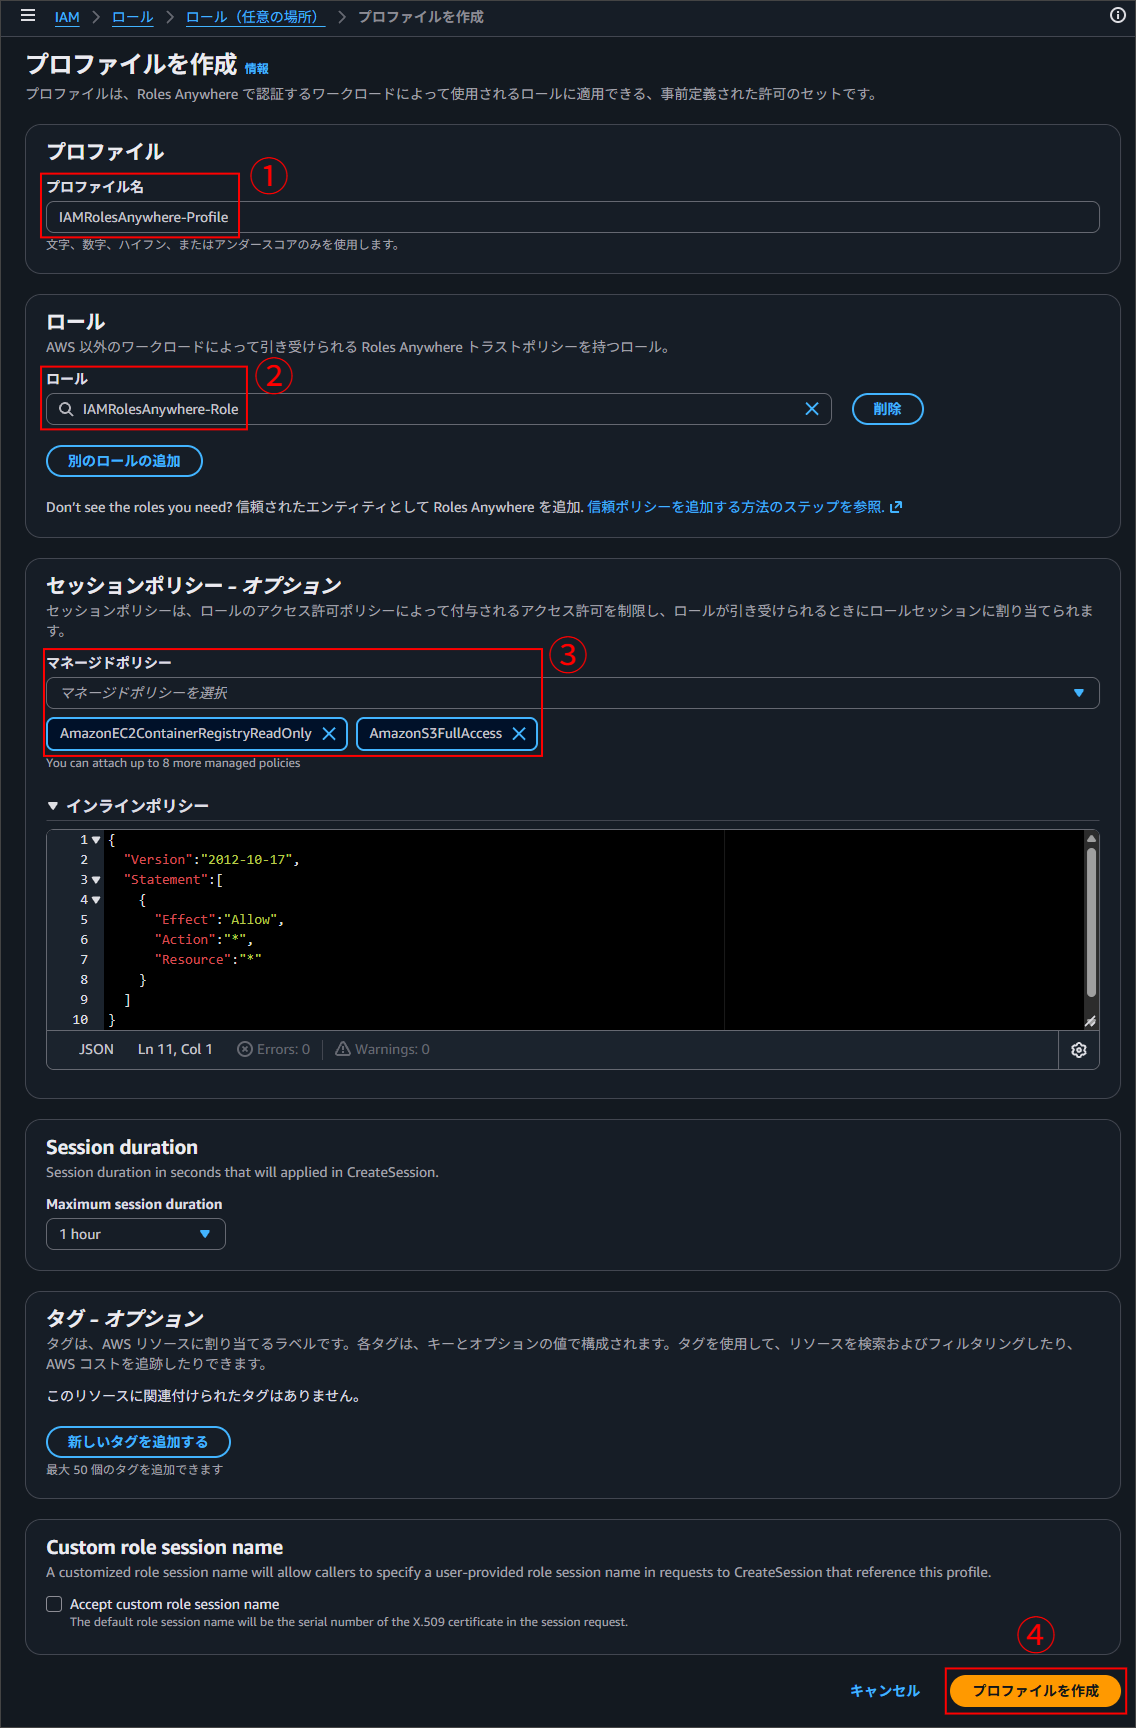
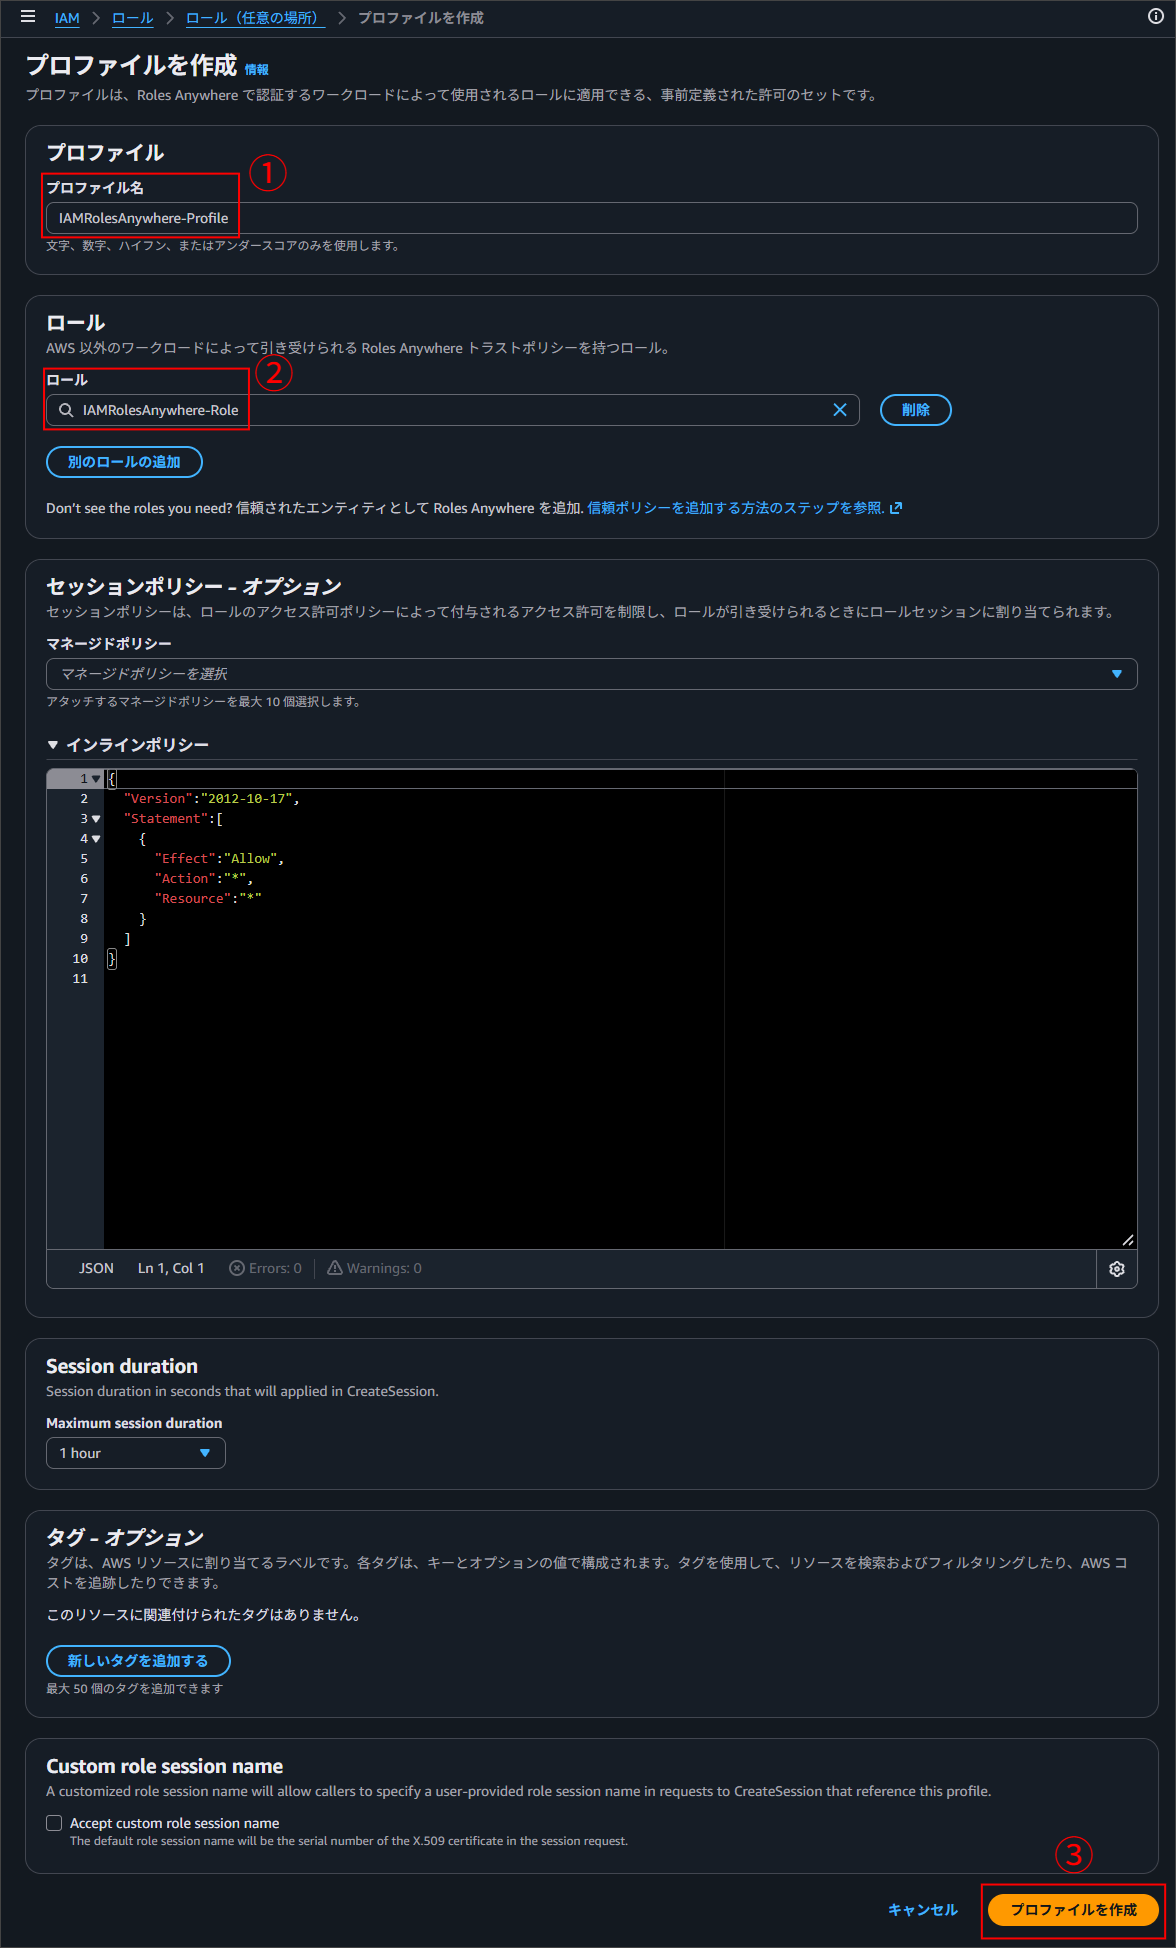
docs: IAMロールの権限設定手順を簡潔化

diff --git a/articles/20260917_kubernetes-ecr-auth-iam-roles-anywhere.md b/articles/20260917_kubernetes-ecr-auth-iam-roles-anywhere.md
@@ -216,12 +216,7 @@ IAMロール画面で `ロールを作成` をクリック
 
 ![6.png](/images/20260917_kubernetes-ecr-auth-iam-roles-anywhere/6.png)
 
-`許可ポリシー`: オンプレミス環境で利用したい権限を付与 (以下例)
-
-- `AmazonEC2ContainerRegistryReadOnly`: ECRからPullするため必須
-- `AmazonS3FullAccess`: PodからS3にアクセスする場合 (本手順ではECRへの認証のみのため省略しても問題ありません)
-
-`次へ` を選択
+`許可ポリシー`: `AmazonEC2ContainerRegistryReadOnly` (ECRへのアクセス権限) を選択し、`次へ` を選択
 
 ![7.png](/images/20260917_kubernetes-ecr-auth-iam-roles-anywhere/7.png)
 
@@ -247,10 +242,7 @@ echo ${PROFILE_NAME}
 ```
 
 2. `ロール`: 作成した信頼アンカー用のIAMロールを指定
-3. `セッションポリシー`: 特定のPodに付与したい権限に絞る ※なにも指定しなくても良い
-   - `AmazonEC2ContainerRegistryReadOnly`
-   - `AmazonS3FullAccess`
-4. `プロファイルを作成` をクリック
+3. `プロファイルを作成` をクリック
 
 ![10.png](/images/20260917_kubernetes-ecr-auth-iam-roles-anywhere/10.png)
 
@@ -404,9 +396,7 @@ curl "${AWSCLI_URL}" -o "awscliv2.zip"
 unzip awscliv2.zip
 ./aws/install
 aws --version
-```
 
-```bash
 # aws_signing_helperをダウンロード
 export AWS_SIGNING_HELPER_PATH="/usr/local/bin/aws_signing_helper"
 curl -o "${AWS_SIGNING_HELPER_PATH}" "https://rolesanywhere.amazonaws.com/releases/${AWS_SIGNING_HELPER_VERSION}/${HELPER_ARCH_URL}/Linux/Amzn2023/aws_signing_helper"
